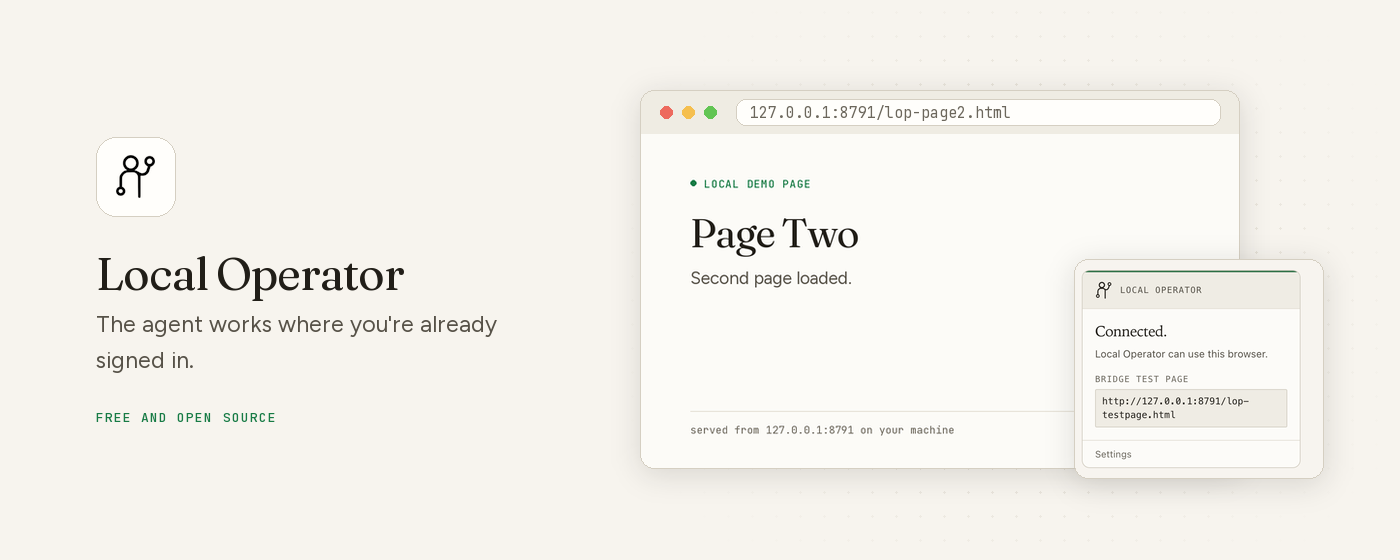
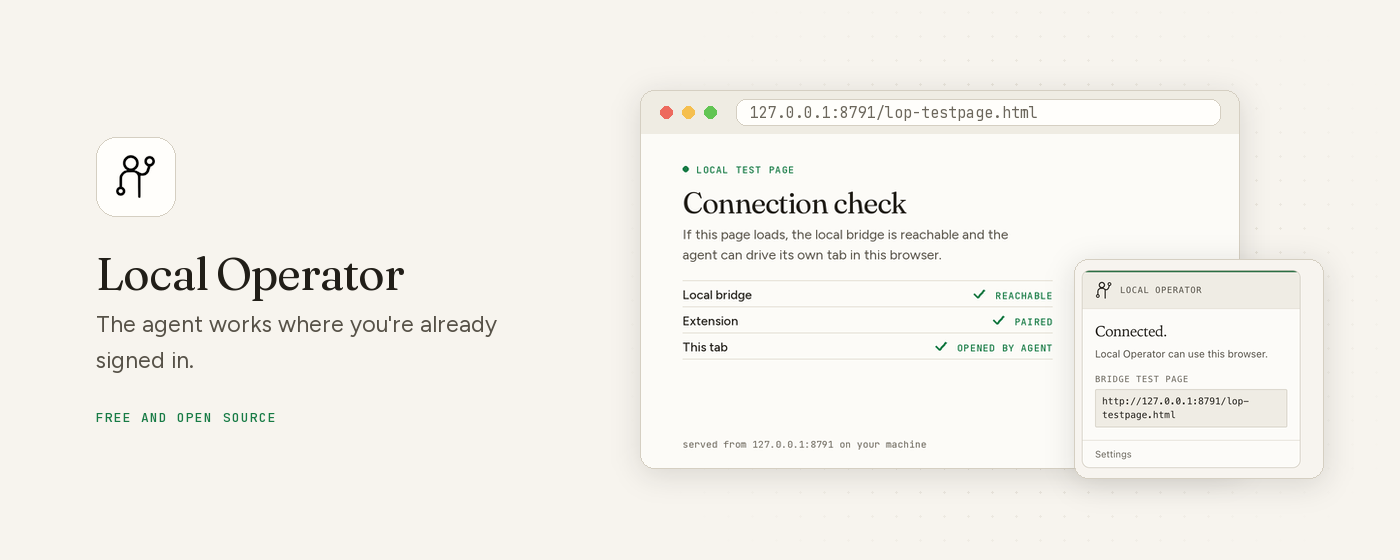
feat(store-assets): connection-check demo page with status rows
Replaces the placeholder-grade Page Two copy with content a bridge test
page actually exists to show: a Connection check heading, an explanatory
line, and three hairline-ruled status rows (Local bridge REACHABLE,
Extension PAIRED, This tab OPENED BY AGENT) with drawn check glyphs and
right-aligned mono values in accent. Address bar renamed to
lop-testpage.html to match the Bridge test page URL in the popup capture,
resolving the D2 URL-mismatch nit. Marquee rows take a right inset so the
overlapping popup never buries the status values.

diff --git a/docs/store/assets/build_assets.py b/docs/store/assets/build_assets.py
@@ -524,55 +524,102 @@ def _split_canvas(
     return cv
 
 
-def _demo_page(w: int = 620, h: int = 346) -> Image.Image:
+def _demo_page(w: int = 620, h: int = 346, row_right_inset: int = 0) -> Image.Image:
     """The local page the agent reached, typeset in the site's design system.
 
     WHY DRAWN, NOT PASTED: the real capture (`action-screenshot-page2.png`) is
-    the bridge's bare test HTML — default Times serif on stark white — which
+    the bridge's bare test HTML (default Times serif on stark white), which
     reads as an unstyled test file inside the otherwise site-themed
-    composition. The copy here is *verbatim* from that captured page ("Page
-    Two" / "Second page loaded.") and the URL in the chrome stays the real
-    127.0.0.1 bridge address, so nothing is fabricated — the same content is
-    simply typeset the way a Local Operator demo page actually looks: Fraunces
-    display heading on `surface`, mono eyebrow with the single accent, Figtree
-    body, hairline-ruled mono footer naming the local origin.
+    composition. So the reached page is typeset here instead: a small
+    connection-check page, which is exactly what a bridge *test page* is for.
+    It is deliberately named `lop-testpage.html` in the browser chrome so the
+    tab URL matches the "Bridge test page" URL visible in the adjacent
+    connected-popup capture; one page, one name, no second fictional origin.
+
+    TRUTHFULNESS RULES for this content: everything stated is a property of
+    the depicted demo state itself (bridge reachable, extension paired, tab
+    opened by the agent) on a 127.0.0.1 origin. No third-party brands, no
+    invented product claims, and no metrics that would imply real usage.
 
     Rendered at 2x then LANCZOS-downsampled so Fraunces' high-contrast
     hairlines survive at composite scale (drawing at 1x leaves the thin
     strokes ragged next to the resampled popup captures).
+
+    `row_right_inset` (page-local px) pulls the status rows' right edge in.
+    The marquee overlaps the popup card onto this page's right side, which
+    would bury the right-aligned status values; the inset keeps every check
+    visible there while screenshot (d), which is not overlapped, uses the
+    full width.
     """
     s = 2  # supersampling factor
     W, H = w * s, h * s
     pg = Image.new("RGB", (W, H), SURFACE)
     d = ImageDraw.Draw(pg)
-    mx = 52 * s  # page gutter — the site's content-column breathing room
-    y = 44 * s
+    mx = 44 * s  # page gutter, the site's content-column breathing room
+    y = 30 * s
 
-    # Mono eyebrow: the one accent use on the page (dot + label), mirroring
-    # the site's section-label recipe at a page-appropriate size.
-    ef = font("mono", 11 * s, 500)
+    # Mono eyebrow (dot + label), mirroring the site's section-label recipe.
+    # Accent is used twice on this page, eyebrow and status values, echoing
+    # the system's "one accent, few places" rule.
+    ef = font("mono", 10 * s, 500)
     easc = ef.getmetrics()[0]
     cy = y + easc // 2 + 1 * s
     d.ellipse([mx, cy - 3 * s, mx + 6 * s, cy + 3 * s], fill=ACCENT)
-    draw_tracked(d, (mx + 14 * s, y), "LOCAL DEMO PAGE", ef, ACCENT, 0.08 * 11 * s)
-    y += easc + 20 * s
+    draw_tracked(d, (mx + 14 * s, y), "LOCAL TEST PAGE", ef, ACCENT, 0.08 * 10 * s)
+    y += easc + 12 * s
 
-    # Fraunces display heading — the captured page's own H1 text, now in the
-    # brand's editorial drawing instead of default Times.
-    hf = font("display", 42 * s, 400)
-    draw_tracked(d, (mx, y), "Page Two", hf, INK, -0.024 * 42 * s)
-    y += round(42 * s * 1.1) + 16 * s
+    # Fraunces display heading. 30px keeps the whole check card in view at
+    # composite scale (a 42px H1 left no room for the status list below).
+    hf = font("display", 30 * s, 400)
+    draw_tracked(d, (mx, y), "Connection check", hf, INK, -0.024 * 30 * s)
+    y += round(30 * s * 1.15) + 8 * s
 
-    # Body line, verbatim from the capture.
-    bf = font("sans", 18 * s, 400)
-    d.text((mx, y), "Second page loaded.", font=bf, fill=INK_MUTED)
+    # One-line body: what loading this page actually demonstrates. Figtree
+    # body voice, ink-muted, exactly the site's supporting-copy recipe.
+    bf = font("sans", 14 * s, 400)
+    d.text(
+        (mx, y),
+        "If this page loads, the local bridge is reachable and the",
+        font=bf,
+        fill=INK_MUTED,
+    )
+    y += round(14 * s * 1.5)
+    d.text((mx, y), "agent can drive its own tab in this browser.", font=bf, fill=INK_MUTED)
+    y += round(14 * s * 1.5) + 14 * s
 
-    # Footer pinned to the page bottom: hairline rule + mono origin line, the
-    # quiet "this is your machine" signature. INK_DIM keeps it tertiary.
-    fy = H - 44 * s
-    d.line([mx, fy - 16 * s, W - mx, fy - 16 * s], fill=HAIRLINE, width=s)
-    ff = font("mono", 11 * s, 400)
-    d.text((mx, fy - 4 * s), "served from 127.0.0.1:8791 on your machine", font=ff, fill=INK_DIM)
+    # Status list: three hairline-separated rows, label left in Figtree ink,
+    # uppercase mono value right-aligned with a small accent check. Each row
+    # states a fact of the depicted demo state, nothing more.
+    rows = [
+        ("Local bridge", "REACHABLE"),
+        ("Extension", "PAIRED"),
+        ("This tab", "OPENED BY AGENT"),
+    ]
+    lf = font("sans", 13 * s, 500)
+    vf = font("mono", 10 * s, 500)
+    row_h = 27 * s
+    right = W - mx - row_right_inset * s
+    for label, value in rows:
+        d.line([mx, y, right, y], fill=HAIRLINE, width=s)
+        base = y + (row_h - lf.getmetrics()[0]) // 2
+        d.text((mx, base), label, font=lf, fill=INK)
+        vw = text_width(d, value, vf, 0.06 * 10 * s)
+        vbase = y + (row_h - vf.getmetrics()[0]) // 2 + 1 * s
+        # Check glyph drawn as two strokes (the mono face's U+2713 coverage
+        # is not guaranteed across the vendored subset, so we draw it).
+        ck_x = right - vw - 16 * s
+        ck_y = vbase + vf.getmetrics()[0] // 2
+        d.line([ck_x - 6 * s, ck_y, ck_x - 2 * s, ck_y + 4 * s], fill=ACCENT, width=2 * s)
+        d.line([ck_x - 2 * s, ck_y + 4 * s, ck_x + 5 * s, ck_y - 4 * s], fill=ACCENT, width=2 * s)
+        draw_tracked(d, (right - vw, vbase), value, vf, ACCENT, 0.06 * 10 * s)
+        y += row_h
+    d.line([mx, y, right, y], fill=HAIRLINE, width=s)
+
+    # Footer pinned to the page bottom: mono origin line, the quiet "this is
+    # your machine" signature. INK_DIM keeps it tertiary.
+    ff = font("mono", 10 * s, 400)
+    fy = H - 22 * s - ff.getmetrics()[0]
+    d.text((mx, fy), "served from 127.0.0.1:8791 on your machine", font=ff, fill=INK_DIM)
     return pg.resize((w, h), Image.LANCZOS)
 
 
@@ -675,7 +722,9 @@ def build_screenshot_action(path: str):
     # raw Times-on-white capture is not pasted directly). Same 620x346 band
     # the previous crop produced, so the composition is unchanged.
     page = _fit(_demo_page(), max_h=H - top - 64, max_w=740)
-    page_card = _browser_chrome(page, "127.0.0.1:8791/lop-page2.html")
+    # Tab URL matches the "Bridge test page" URL shown inside the adjacent
+    # popup capture, so the two frames tell one story about one page.
+    page_card = _browser_chrome(page, "127.0.0.1:8791/lop-testpage.html")
     px = MARGIN
     py = top + ((H - top - 64) - page_card.height) // 2
     rounded_shadow_card(cv, page_card, (px, py))
@@ -781,8 +830,12 @@ def build_marquee(path: str):
 
     # Right ~60%: the reached page (typeset in-theme — see _demo_page) in
     # browser chrome with the connected popup.
-    page = _fit(_demo_page(), max_h=360, max_w=600)
-    page_card = _browser_chrome(page, "127.0.0.1:8791/lop-page2.html")
+    # row_right_inset=150: the connected popup pasted below overlaps this
+    # card's right side from page-local x ~449 (popup left 1075 on canvas,
+    # card left 640, fit scale ~0.968); insetting the status rows to ~426
+    # keeps every check and value visible beside the popup.
+    page = _fit(_demo_page(row_right_inset=150), max_h=360, max_w=600)
+    page_card = _browser_chrome(page, "127.0.0.1:8791/lop-testpage.html")
     px = 640
     py = (H - page_card.height) // 2
     rounded_shadow_card(cv, page_card, (px, py))
